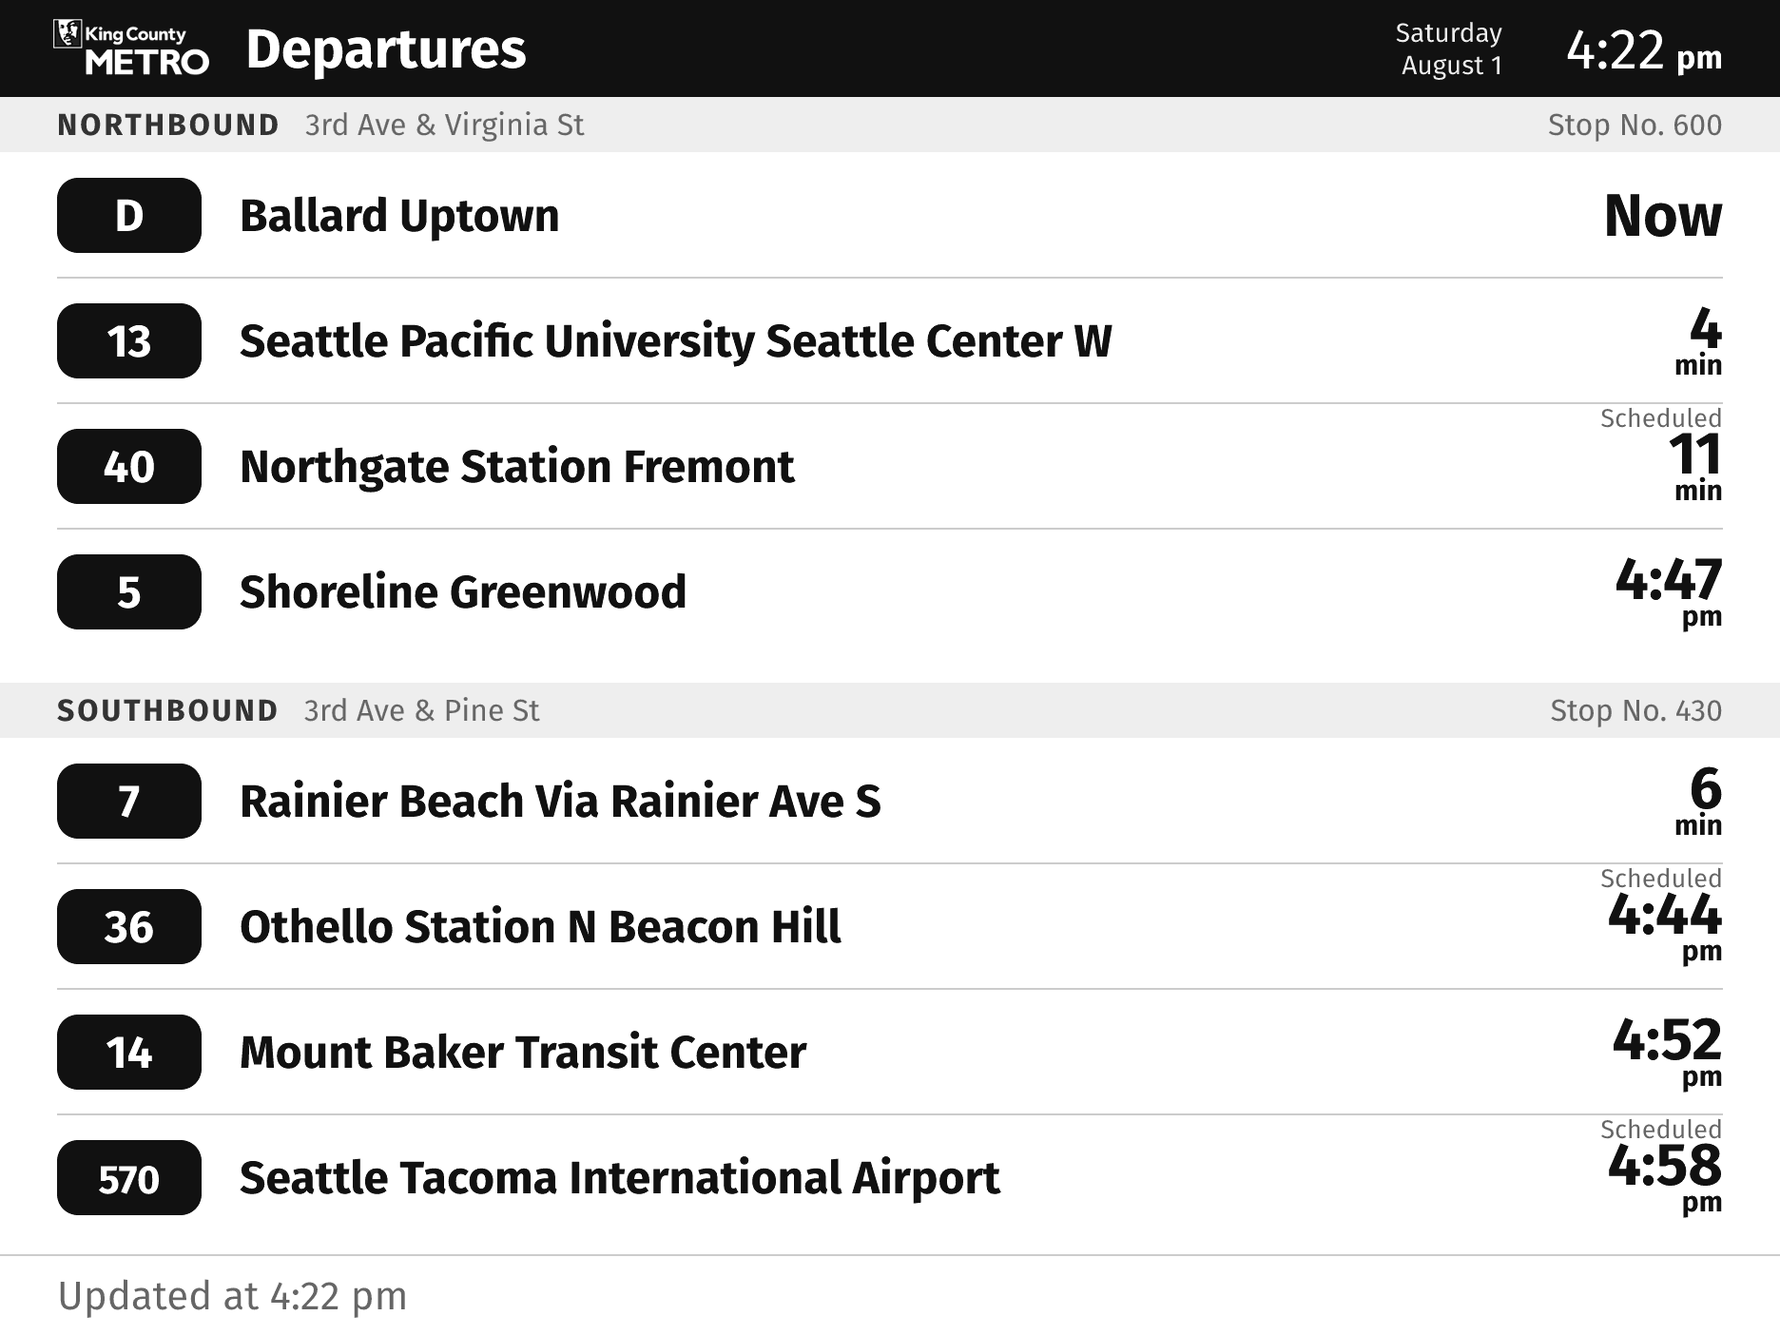
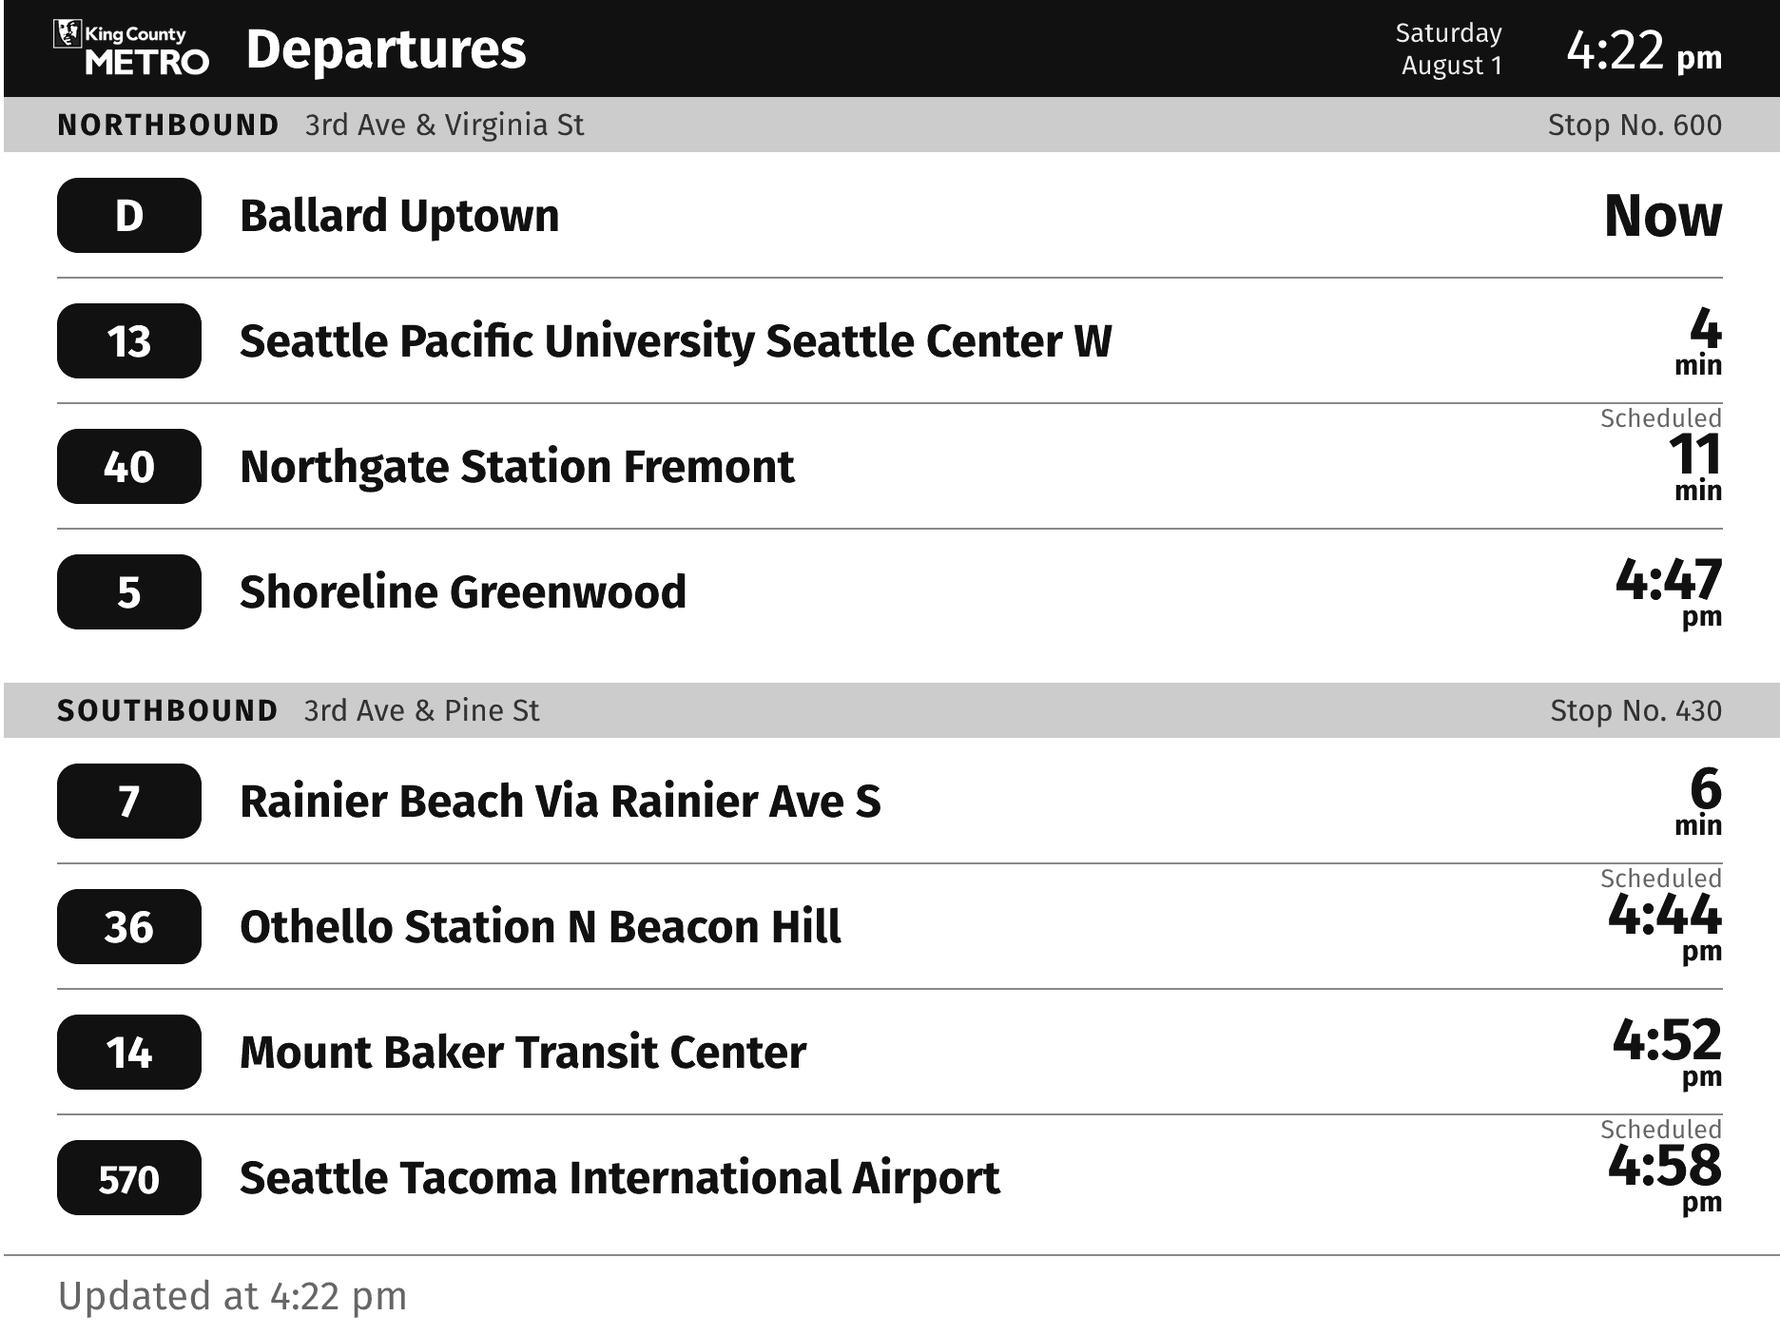
Render: Match the panel's right-edge gap on the left, darken bands
The X draws the image 2px left of the glass, so a 2px strip of paper that no image can reach shows down the right edge, and full-width shapes like the header bar looked broken there. The direction bands and row rules were also too faint against e-paper's grey-white.

This commit starts every full-width shape at `BLEED_LEFT` (4px), which shows a matching 2px gap on the left so both edges read as a deliberate hairline margin, and darkens the bands, their text and the rules. The README screenshots are regenerated.

Changed region(s): [[0.0, 0.49, 1.0, 0.5513], [0.0, 0.0613, 1.0, 0.1225]]

diff --git a/src/render/board.js b/src/render/board.js
@@ -34,6 +34,14 @@ export const SIGN_FONT = 'Fira Sans';
 /** Meaningful mid grey, and a lighter one that only ever means de-emphasis. */
 const GREY = '#6b6b6b';
 const FAINT = '#a6a6a6';
+
+/** Row and footer rules. Dark enough to separate rows on e-paper, whose white is a grey-white. */
+export const RULE = '#8a8a8a';
+
+/** The direction band, and the two inks set on it. */
+export const BAND_FILL = '#c8c8c8';
+const BAND_INK = '#111';
+const BAND_QUIET_INK = '#333';
 const INK = '#111';
 
 /**
@@ -59,6 +67,18 @@ function capCentredBaseline( centre, size ) {
 }
 
 export const HEADER_HEIGHT = 102;
+
+/**
+ * Where full-width shapes start and end — the header bar, the direction bands, the footer rule.
+ *
+ * Not the panel edges. The first real X draws the image 2px left of the glass, hiding the two leftmost
+ * columns and leaving two never-driven columns of paper down the right edge, which nothing can fill
+ * because an image wider than the panel crash-loops the device. Starting these shapes 4px in shows a
+ * 2px paper gap on the left to match the hardware's 2px on the right, so the gap reads as a margin
+ * rather than a fault. Measured with `calibration.js` on one unit; it is very likely the same on every X, which is why this is a constant rather than config.
+ */
+export const BLEED_LEFT = 4;
+export const BLEED_RIGHT = PANEL_WIDTH;
 const BAND_HEIGHT = 58;
 const GROUP_GAP = 30;
 const LEFT = 60;
@@ -477,20 +497,20 @@ const BAND_BASELINE = capCentredBaseline( BAND_HEIGHT / 2, BAND_TEXT_SIZE );
  */
 function headingWithName( x, y, heading, name ) {
 	if ( ! name ) {
-		return text( x, y, BAND_TEXT_SIZE, heading, { fill: '#333', spacing: 3 } );
+		return text( x, y, BAND_TEXT_SIZE, heading, { fill: BAND_INK, spacing: 3 } );
 	}
 
 	// OneBusAway leaves `stop.direction` empty for a fair number of stops — 24 of the 515 seen while
 	// surveying, one of them a Link platform — and `directionLabel()` honestly returns nothing for
 	// those. The name then takes the whole slot rather than sitting indented behind an empty label.
 	if ( ! heading ) {
-		return text( x, y, BAND_TEXT_SIZE, name, { weight: 400, fill: GREY } );
+		return text( x, y, BAND_TEXT_SIZE, name, { weight: 400, fill: BAND_QUIET_INK } );
 	}
 
 	return (
-		`<text x="${ x }" y="${ y }" font-family="${ SIGN_FONT }" font-size="${ BAND_TEXT_SIZE }" fill="#333">` +
+		`<text x="${ x }" y="${ y }" font-family="${ SIGN_FONT }" font-size="${ BAND_TEXT_SIZE }" fill="${ BAND_INK }">` +
 		`<tspan font-weight="700" letter-spacing="3">${ escapeText( heading ) }</tspan>` +
-		`<tspan dx="26" font-weight="400" fill="${ GREY }">${ escapeText( name ) }</tspan>` +
+		`<tspan dx="26" font-weight="400" fill="${ BAND_QUIET_INK }">${ escapeText( name ) }</tspan>` +
 		`</text>`
 	);
 }
@@ -506,9 +526,9 @@ function headingWithName( x, y, heading, name ) {
  */
 function directionBand( group, y ) {
 	return (
-		`<rect x="0" y="${ y }" width="${ PANEL_WIDTH }" height="${ BAND_HEIGHT }" fill="#e6e6e6"/>` +
+		`<rect x="${ BLEED_LEFT }" y="${ y }" width="${ BLEED_RIGHT - BLEED_LEFT }" height="${ BAND_HEIGHT }" fill="${ BAND_FILL }"/>` +
 		headingWithName( LEFT, y + BAND_BASELINE, group.heading.toUpperCase(), group.name ) +
-		text( RIGHT, y + BAND_BASELINE, BAND_TEXT_SIZE, group.stop, { weight: 400, fill: GREY, anchor: 'end' } )
+		text( RIGHT, y + BAND_BASELINE, BAND_TEXT_SIZE, group.stop, { weight: 400, fill: BAND_QUIET_INK, anchor: 'end' } )
 	);
 }
 
@@ -738,7 +758,7 @@ export function buildBoardSvg( board ) {
 			}
 
 			if ( rowIndex < group.rows.length - 1 ) {
-				body += `<line x1="${ LEFT }" y1="${ y + rowHeight }" x2="${ RIGHT }" y2="${ y + rowHeight }" stroke="#c0c0c0" stroke-width="2"/>`;
+				body += `<line x1="${ LEFT }" y1="${ y + rowHeight }" x2="${ RIGHT }" y2="${ y + rowHeight }" stroke="${ RULE }" stroke-width="2"/>`;
 			}
 
 			y += rowHeight;
@@ -750,11 +770,11 @@ export function buildBoardSvg( board ) {
 	return (
 		`<svg xmlns="http://www.w3.org/2000/svg" width="${ PANEL_WIDTH }" height="${ PANEL_HEIGHT }" viewBox="0 0 ${ PANEL_WIDTH } ${ PANEL_HEIGHT }">` +
 		`<rect width="${ PANEL_WIDTH }" height="${ PANEL_HEIGHT }" fill="#fff"/>` +
-		`<rect width="${ PANEL_WIDTH }" height="${ HEADER_HEIGHT }" fill="${ INK }"/>` +
+		`<rect x="${ BLEED_LEFT }" width="${ BLEED_RIGHT - BLEED_LEFT }" height="${ HEADER_HEIGHT }" fill="${ INK }"/>` +
 		lockup +
 		headerTimeBlock( board ) +
 		body +
-		`<line x1="0" y1="${ FOOTER_RULE_Y }" x2="${ PANEL_WIDTH }" y2="${ FOOTER_RULE_Y }" stroke="#c0c0c0" stroke-width="2"/>` +
+		`<line x1="${ BLEED_LEFT }" y1="${ FOOTER_RULE_Y }" x2="${ BLEED_RIGHT }" y2="${ FOOTER_RULE_Y }" stroke="${ RULE }" stroke-width="2"/>` +
 		// The whole defence against a silently frozen panel. Metro's signs are wired and monitored;
 		// ours can fail with no way to say so, and this is the only cue that survives that. It starts
 		// at the left margin rather than clearing a logo, so the words get the full footer width.

diff --git a/src/render/overnight.js b/src/render/overnight.js
@@ -38,6 +38,9 @@
 import { METRO_LOGO_DATA_URI } from '../assets/metro-logo.js';
 import { routeBadge } from '../route-badge.js';
 import {
+	BAND_FILL,
+	BLEED_LEFT,
+	BLEED_RIGHT,
 	FOOTER_BASELINE,
 	FOOTER_RULE_Y,
 	FOOTER_TEXT_SIZE,
@@ -45,6 +48,7 @@ import {
 	METRO_LOGO_BOX,
 	PANEL_HEIGHT,
 	PANEL_WIDTH,
+	RULE,
 	text,
 } from './board.js';
 
@@ -141,7 +145,7 @@ function headerLogo() {
  */
 function header( right = '' ) {
 	return (
-		`<rect width="${ PANEL_WIDTH }" height="${ HEADER_HEIGHT }" fill="${ INK }"/>` +
+		`<rect x="${ BLEED_LEFT }" width="${ BLEED_RIGHT - BLEED_LEFT }" height="${ HEADER_HEIGHT }" fill="${ INK }"/>` +
 		headerLogo() +
 		right
 	);
@@ -149,7 +153,7 @@ function header( right = '' ) {
 
 /** A hairline where the black header bar would have ended, for the variants that have no bar. */
 function headerRule( stroke ) {
-	return `<line x1="0" y1="${ HEADER_HEIGHT }" x2="${ PANEL_WIDTH }" y2="${ HEADER_HEIGHT }" stroke="${ stroke }" stroke-width="2"/>`;
+	return `<line x1="${ BLEED_LEFT }" y1="${ HEADER_HEIGHT }" x2="${ BLEED_RIGHT }" y2="${ HEADER_HEIGHT }" stroke="${ stroke }" stroke-width="2"/>`;
 }
 
 /**
@@ -168,19 +172,26 @@ function headerRule( stroke ) {
  * that line rather than additions to it. The parameter stays optional so a future variant can put it
  * somewhere else without the rule losing its footer.
  */
-function footer( label, ink = GREY, rule = '#c0c0c0' ) {
+function footer( label, ink = GREY, rule = RULE ) {
 	return (
-		`<line x1="0" y1="${ FOOTER_RULE_Y }" x2="${ PANEL_WIDTH }" y2="${ FOOTER_RULE_Y }" stroke="${ rule }" stroke-width="2"/>` +
+		`<line x1="${ BLEED_LEFT }" y1="${ FOOTER_RULE_Y }" x2="${ BLEED_RIGHT }" y2="${ FOOTER_RULE_Y }" stroke="${ rule }" stroke-width="2"/>` +
 		( label
 			? text( LEFT, FOOTER_BASELINE, FOOTER_TEXT_SIZE, `Wakes at ${ label }`, { weight: 400, fill: ink } )
 			: '' )
 	);
 }
 
+/**
+ * The whole screen. An inked background stops at `BLEED_LEFT`, like the board's header bar, so the
+ * panel's unfilled right-hand columns read as a matching margin rather than a fault.
+ */
 function panel( background, contents ) {
 	return (
 		`<svg xmlns="http://www.w3.org/2000/svg" width="${ PANEL_WIDTH }" height="${ PANEL_HEIGHT }" viewBox="0 0 ${ PANEL_WIDTH } ${ PANEL_HEIGHT }">` +
-		`<rect width="${ PANEL_WIDTH }" height="${ PANEL_HEIGHT }" fill="${ background }"/>` +
+		`<rect width="${ PANEL_WIDTH }" height="${ PANEL_HEIGHT }" fill="${ PAPER }"/>` +
+		( background === PAPER
+			? ''
+			: `<rect x="${ BLEED_LEFT }" width="${ BLEED_RIGHT - BLEED_LEFT }" height="${ PANEL_HEIGHT }" fill="${ background }"/>` ) +
 		contents +
 		`</svg>`
 	);
@@ -232,7 +243,7 @@ function rowBand( { resumeLabel } ) {
 	return panel(
 		PAPER,
 		header() +
-			`<rect x="0" y="${ bandY }" width="${ PANEL_WIDTH }" height="58" fill="#e6e6e6"/>` +
+			`<rect x="${ BLEED_LEFT }" y="${ bandY }" width="${ BLEED_RIGHT - BLEED_LEFT }" height="58" fill="${ BAND_FILL }"/>` +
 			text( LEFT, bandY + 41, 34, 'RESTING', { spacing: 2 } ) +
 			text( RIGHT, bandY + 41, 32, `Wakes at ${ resumeLabel }`, { weight: 400, fill: GREY, anchor: 'end' } ) +
 			rowRules( CENTRE_Y - 60, CENTRE_Y + 160, '#d8d8d8' ) +
@@ -319,7 +330,7 @@ function rowScheduledInverse( { resumeClock, resumeMeridiem } ) {
  */
 function tomorrowBand( y, { fill, ink } ) {
 	return (
-		`<rect x="0" y="${ y }" width="${ PANEL_WIDTH }" height="58" fill="${ fill }"/>` +
+		`<rect x="${ BLEED_LEFT }" y="${ y }" width="${ BLEED_RIGHT - BLEED_LEFT }" height="58" fill="${ fill }"/>` +
 		text( LEFT, y + 41, 34, 'FIRST DEPARTURES TOMORROW', { fill: ink, spacing: 2 } )
 	);
 }
@@ -364,7 +375,7 @@ function firstDepartures( { resumeLabel, rows = [] } ) {
 		PAPER,
 		header() +
 			moonBadge( CENTRE_X, TOMORROW_PLATE_CENTRE, TOMORROW_PLATE_WIDTH ) +
-			tomorrowBand( TOMORROW_BAND_Y, { fill: '#e6e6e6', ink: INK } ) +
+			tomorrowBand( TOMORROW_BAND_Y, { fill: BAND_FILL, ink: INK } ) +
 			firstDepartureRows( rows, { ink: PAPER, paper: INK, rule: '#e2e2e2', quiet: GREY } ) +
 			footer( resumeLabel )
 	);

diff --git a/src/render/notice.js b/src/render/notice.js
@@ -16,6 +16,8 @@
  */
 
 import {
+	BLEED_LEFT,
+	BLEED_RIGHT,
 	FOOTER_BASELINE,
 	FOOTER_RULE_Y,
 	FOOTER_TEXT_SIZE,
@@ -24,6 +26,7 @@ import {
 	HEADER_WORD_SIZE,
 	PANEL_HEIGHT,
 	PANEL_WIDTH,
+	RULE,
 	headerTimeBlock,
 	text,
 } from './board.js';
@@ -116,7 +119,7 @@ export function buildNoticeSvg( notice ) {
 	return (
 		`<svg xmlns="http://www.w3.org/2000/svg" width="${ PANEL_WIDTH }" height="${ PANEL_HEIGHT }" viewBox="0 0 ${ PANEL_WIDTH } ${ PANEL_HEIGHT }">` +
 		`<rect width="${ PANEL_WIDTH }" height="${ PANEL_HEIGHT }" fill="#fff"/>` +
-		`<rect width="${ PANEL_WIDTH }" height="${ HEADER_HEIGHT }" fill="${ INK }"/>` +
+		`<rect x="${ BLEED_LEFT }" width="${ BLEED_RIGHT - BLEED_LEFT }" height="${ HEADER_HEIGHT }" fill="${ INK }"/>` +
 		text( 56, HEADER_WORD_BASELINE, HEADER_WORD_SIZE, 'Departures', { fill: '#fff' } ) +
 		headerTimeBlock( notice ) +
 		// Centred rather than left-aligned, which is the other half of "does not look like a board".
@@ -127,7 +130,7 @@ export function buildNoticeSvg( notice ) {
 		// words — the detail line below is where the sentence goes.
 		text( CENTRE, 660, 116, headline, { anchor: 'middle' } ) +
 		detailLines +
-		`<line x1="0" y1="${ FOOTER_RULE_Y }" x2="${ PANEL_WIDTH }" y2="${ FOOTER_RULE_Y }" stroke="#c0c0c0" stroke-width="2"/>` +
+		`<line x1="${ BLEED_LEFT }" y1="${ FOOTER_RULE_Y }" x2="${ BLEED_RIGHT }" y2="${ FOOTER_RULE_Y }" stroke="${ RULE }" stroke-width="2"/>` +
 		// No OneBusAway mark here: nothing on this screen came from OneBusAway, and stamping their
 		// logo on a screen that exists because we have no data from them would be a small lie.
 		text( LEFT, FOOTER_BASELINE, FOOTER_TEXT_SIZE, `Updated at ${ notice.asOf }`, {

diff --git a/src/render/board.test.js b/src/render/board.test.js
@@ -215,7 +215,7 @@ describe( 'buildBoardSvg', () => {
 					},
 				],
 			};
-			const sizes = [ ...buildBoardSvg( board ).matchAll( /font-size="(\d+)" fill="#111">(?!Now|\d)/g ) ];
+			const sizes = [ ...buildBoardSvg( board ).matchAll( /font-weight="700" font-size="(\d+)" fill="#111">(?!Now|\d)/g ) ];
 
 			expect( sizes.length ).toBeGreaterThan( 1 );
 			expect( new Set( sizes.map( ( match ) => match[ 1 ] ) ).size ).toBe( 1 );
@@ -338,7 +338,7 @@ describe( 'buildBoardSvg', () => {
 		it( 'centres the band text in the band', () => {
 			const svg = buildBoardSvg( groupWith( [ LIVE_ROW ] ) );
 			const heading = svg.match( /<text x="60" y="(\d+)" font-family="[^"]+" font-size="32"/ );
-			const bandTop = Number( svg.match( /<rect x="0" y="(\d+)"/ )[ 1 ] );
+			const bandTop = Number( svg.match( /<rect x="\d+" y="(\d+)" width="\d+" height="58"/ )[ 1 ] );
 
 			// The band is 58 tall, and both its ends share this baseline.
 			expect( capCentre( Number( heading[ 1 ] ), 32 ) - bandTop ).toBeCloseTo( 29, 0 );

diff --git a/src/render/notice.test.js b/src/render/notice.test.js
@@ -93,10 +93,10 @@ describe( 'buildNoticeSvg', () => {
 		const board = buildBoardSvg( BUS_BOARD );
 
 		// No direction bands, no row rules, no badges.
-		expect( svg ).not.toContain( '#e6e6e6' );
-		expect( svg ).not.toContain( 'stroke="#c0c0c0" stroke-width="2"/><line' );
+		expect( svg ).not.toContain( '#c8c8c8' );
+		expect( svg ).not.toContain( 'stroke="#8a8a8a" stroke-width="2"/><line' );
 		expect( svg ).not.toContain( '<circle' );
-		expect( board ).toContain( '#e6e6e6' );
+		expect( board ).toContain( '#c8c8c8' );
 	} );
 
 	it( 'escapes markup coming from anywhere upstream', () => {

diff --git a/src/render/overnight.test.js b/src/render/overnight.test.js
@@ -3,6 +3,7 @@ import { describe, expect, it } from 'vitest';
 import { overnightScreen } from '../byos/screens.js';
 import { readConfig } from '../config.js';
 import { FILENAME_TAGS } from '../filename.js';
+import { BAND_FILL } from './board.js';
 import {
 	buildOvernightSvg,
 	DEFAULT_OVERNIGHT_VARIANT,
@@ -63,7 +64,7 @@ describe( 'buildOvernightSvg', () => {
 	} );
 
 	it( 'draws no direction bands and no stop name', () => {
-		expect( svg ).not.toContain( '#e6e6e6' );
+		expect( svg ).not.toContain( BAND_FILL );
 		expect( svg ).not.toContain( '1_600' );
 	} );
 

diff --git a/CLAUDE.md b/CLAUDE.md
@@ -262,7 +262,7 @@ Still size the render from the `Width`/`Height` request headers and log them on 
 
 Two behaviors matter for a mis-sized image: the firmware **crops rather than scales**, and it **auto-rotates based on the PNG's own dimensions**. So a width/height swap silently rotates the render instead of erroring.
 
-**The first real X draws the image 2px left of the glass**, measured 2026-10-12 with the test pattern in `src/render/calibration.js` (`CALIBRATION_SCREEN`): the two leftmost columns sit under the bezel and a white strip shows on the right. Nothing compensates for it, deliberately. A horizontal shift was built and deleted the same day: it cannot fill the right strip, because the image can never be wider than 1872, and the two columns it would rescue on the left sit inside a 60px margin with nothing in it.
+**The first real X draws the image 2px left of the glass**, measured 2026-10-12 with the test pattern in `src/render/calibration.js` (`CALIBRATION_SCREEN`): the two leftmost columns sit under the bezel and a white strip shows on the right. A horizontal shift was built and deleted the same day: it cannot fill the right strip, because the image can never be wider than 1872. Instead every full-width shape starts at `BLEED_LEFT` so the left edge shows a matching 2px gap; see `src/render/CLAUDE.md`.
 
 **Never serve an image wider than the panel.** A 1874px PNG put the X into a reboot loop, reproduced twice on 2026-10-12: it crashes drawing the image, reboots (`Update-Source: powercycle`, `Wake-Time: 0`, a poll every 7-10 seconds, no image download), finds the same file already on flash through the download gate, and crashes again. The only way out is a new `filename` pointing at a valid image, so the server must still be reachable to recover it. `rasterize()` encodes at the panel size and throws on anything else, so this now fails as a 500 on `/image` instead.
 

diff --git a/src/render/CLAUDE.md b/src/render/CLAUDE.md
@@ -217,3 +217,9 @@ On the first X it read 2 on the left and a gap even at row 0 on the right: the i
 - **The image can never be wider than the panel.** Widening it so the shift could fill the right strip crash-looped the device; see the root `CLAUDE.md`.
 - **Without widening, a shift only rescues the hidden left columns**, which sit inside a 60px margin with nothing in it. If it ever comes back, do it in the SVG rather than the pixels, so the `filename` hash sees the change, and backfill the uncovered columns white — transparent reads as black to the encoder.
 
+**What the layout does instead is make the strip look intended — variant 4, chosen 2026-10-12.** Every full-width shape — the header bar, the direction bands, the footer rule, the overnight screen's inked panel — starts at `BLEED_LEFT` (4px) rather than 0. On the glass that leaves a 2px paper gap on the left matching the hardware's 2px on the right, so both edges read as a deliberate hairline margin. Square corners. The 4 was measured on one unit and is very likely the same on every X, so it is a constant in `render/board.js` rather than config, by the owner's call.
+
+Chosen over a 24px inset, square or rounded, judged against renders that simulate the glass — the shift, the unfilled strip, and e-paper's grey-white paper rather than pure white. Those renders came from a scratch script, not from `/_preview`.
+
+**The same change darkened the direction bands to `#c8c8c8`, their text to `#111` and `#333`, and the row rules to `#8a8a8a` (`RULE`).** On e-paper, white is a grey-white, and at `#e6e6e6` the bands nearly vanished against it.
+

diff --git a/docs/deploying.md b/docs/deploying.md
@@ -141,7 +141,7 @@ Nothing deployment-specific is a literal in the code; `readConfig()` in `src/con
 
 ### Checking how the image sits on your panel
 
-The first TRMNL X drew the image 2px to the left of the glass: the two leftmost columns were hidden under the bezel, and a white strip showed down the right edge. Nothing compensates for that, because nothing can fill the right strip — an image wider than the panel crash-loops the device — and the layout keeps a wide margin on both sides anyway. To see how yours sits:
+The first TRMNL X drew the image 2px to the left of the glass: the two leftmost columns were hidden under the bezel, and a white strip showed down the right edge. Nothing can fill the right strip — an image wider than the panel crash-loops the device — so the layout starts its full-width shapes at `BLEED_LEFT` in `src/render/board.js`, 4px in, which shows a matching 2px gap on the left. If your panel sits differently, change that constant. To see how yours sits:
 
 1. During the sign's active hours, set `CALIBRATION_SCREEN = "true"` and deploy. On the next poll the sign shows rows of black bars at both side edges, each row's bars inset by the number of pixels on its label.
 2. On each side, read the first row with a clear white gap between bar and bezel. Row 1 on both sides means the image is centred. A first gap at row *n* on the left, with a gap even on row 0 on the right, means the image is shifted *n* pixels left.

diff --git a/docs/TODO.md b/docs/TODO.md
@@ -68,6 +68,13 @@ Nothing in the server work is blocked on the hardware. Everything here is. Getti
 
 - [ ] **Confirm the overnight layout, then delete the parked variants.** `badge-moon-inverse-stars` ships; the rest stay in `render/overnight.js` because switching back is one word. Judge at physical size — stars read as dust on the light panel and as sky reversed out of ink, which is why the light-with-stars pairing was dropped.
 
+
+## Phase 3 - iteration from real usage
+
+- [ ] trml x has partial refresh now - maybe it could increase battery life a lot?
+	https://youtu.be/xFEeS1IY2eE?si=a4xu6k27MpPYxmmw
+
+
 ## Housekeeping — unscheduled
 
 - [ ] **Decide whether `OUTCOMES.byosUnimplemented` still needs its retired-value comment** in `src/abuse.js`. `docs/manual-testing.md` says to settle it when the stats datasets are renamed, which happened on 2026-10-12 (`_v2`). It is still returned by `classifyRequest()`, so the value stays; only the comment's reasoning is in question.
